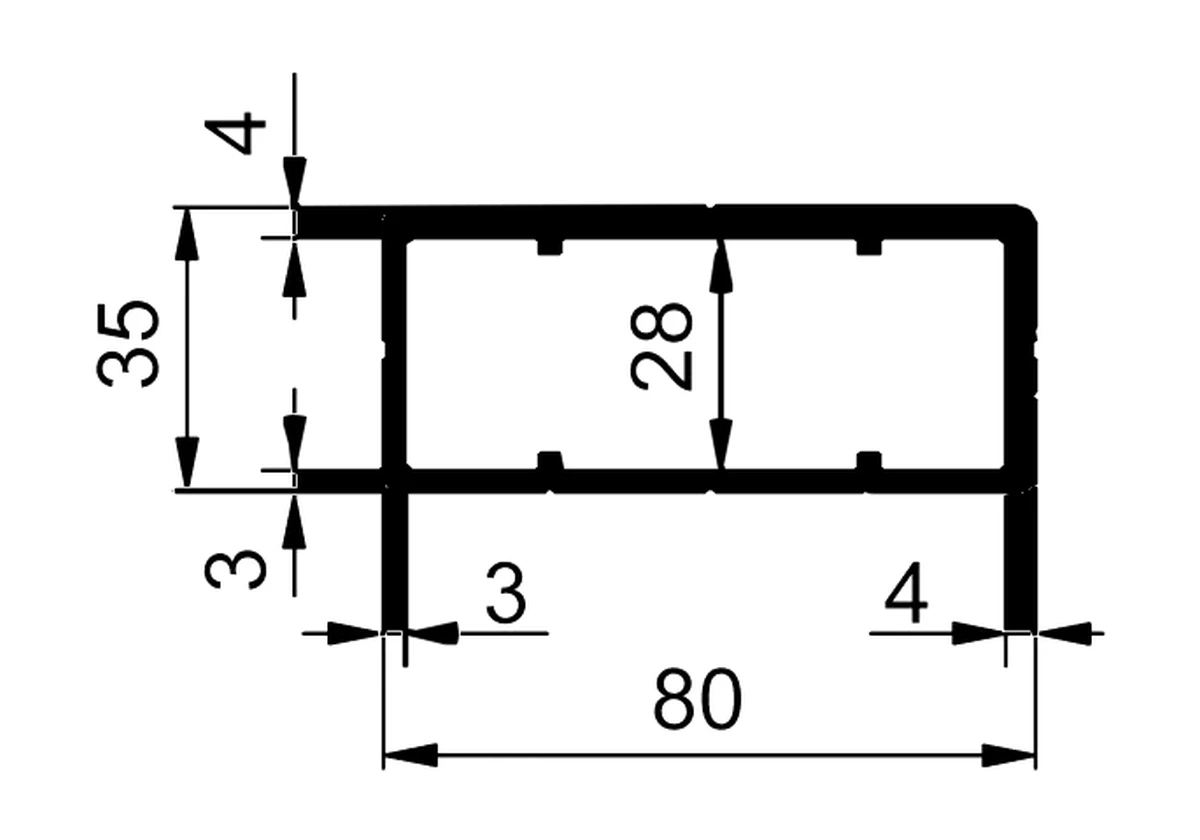
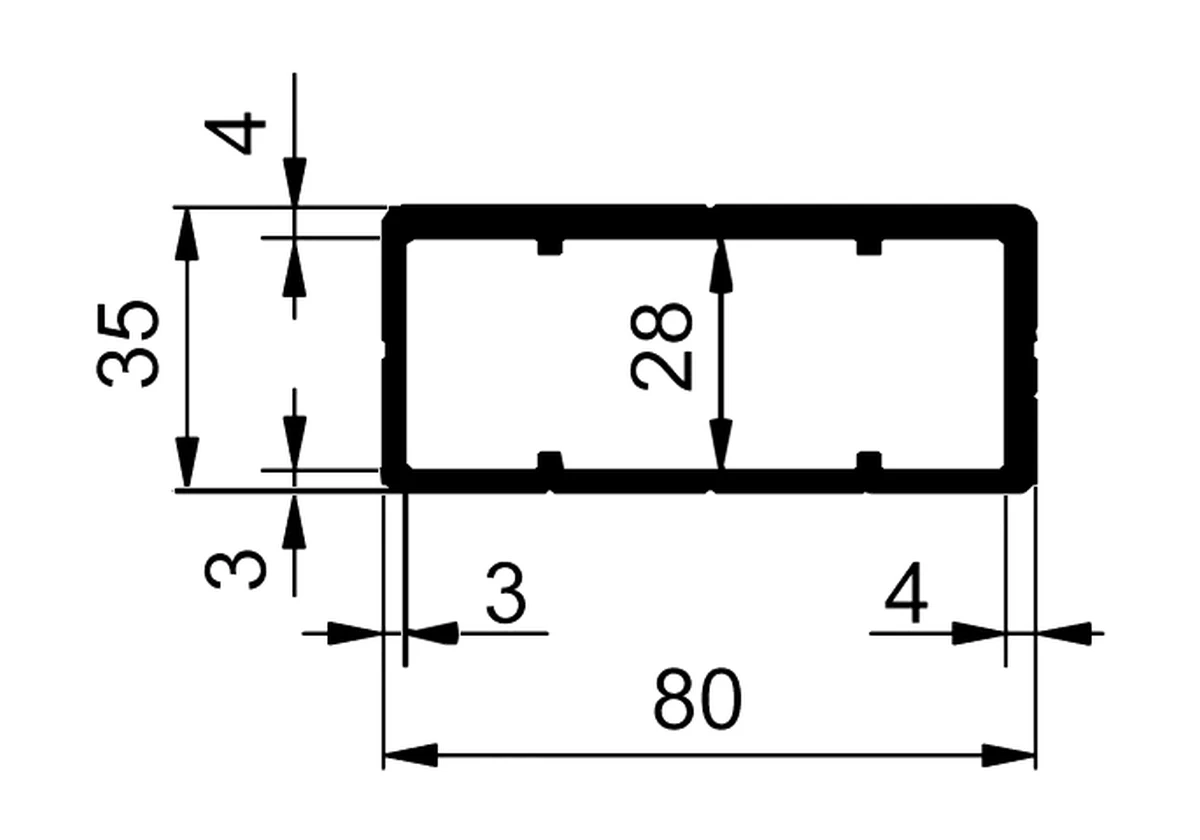
66K0800 Alu zártszelvény: a méretezés segédvonalai újra vékonyak (nem a falvastagságúak)
Claude-Session: https://claude.ai/code/session_01GqcGcrqDWYvNfyrVUkczEM

diff --git a/scripts/termekadatok/alvaz_rajzok.py b/scripts/termekadatok/alvaz_rajzok.py
@@ -233,7 +233,7 @@ HIRES = {"223350-350-mm-mono-profil-szakalas-elox": ("metra", 22, (305, 95, 420,
 WALL_MM = {"25-mm-vastag-oldalfal-rendszerek": 4, "25-mm-mono-profilok": 4, "szego-profilok": 4,
            "aluminium-billencs-oldalfalak": 4, "sarok-oszlopok": 5}
 # termékenkénti eltérés a kitöltendő falvastagságtól (mm)
-WALL_SLUG = {}
+WALL_SLUG = {"66k0800-alu-zartszelveny-80x35-4r-elox": 1}  # tömör falú forrás: a segédvonalak mellé ne töltsön
 # halvány (szürke vonalas) forrásrajzok besötétítése a feldolgozás előtt
 DARKEN = {"6639604-max-hatso-oszlop-exl-elox", "6639692-max-elso-oszlop-exl-elox"}
 # alkategóriák, ahol nem közös a lépték: minden rajz egyenként tölti ki a vásznat (a Quadris kérése: 6613553 mintájára)
